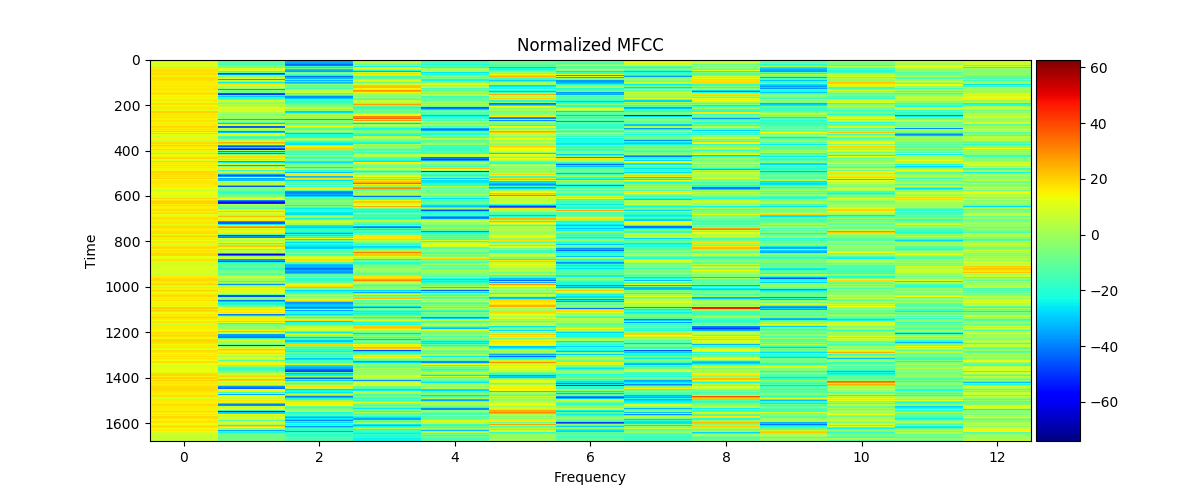
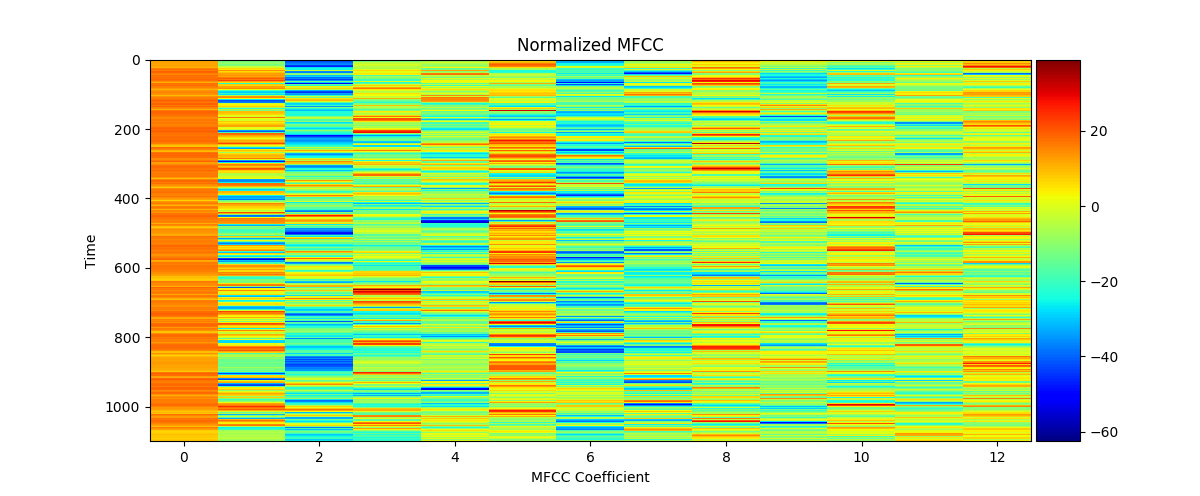
re-title MFCC Coefficient axis

diff --git a/mfcc_quiz/dutils.py b/mfcc_quiz/dutils.py
@@ -20,7 +20,7 @@ def plot_mfcc_feature(vis_mfcc_feature):
     im = ax.imshow(vis_mfcc_feature, cmap=plt.cm.jet, aspect='auto')
     plt.title('Normalized MFCC')
     plt.ylabel('Time')
-    plt.xlabel('Frequency')
+    plt.xlabel('MFCC Coefficient')
     divider = make_axes_locatable(ax)
     cax = divider.append_axes("right", size="5%", pad=0.05)
     plt.colorbar(im, cax=cax)
